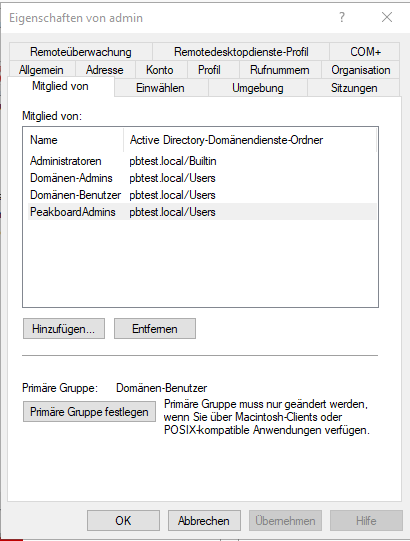
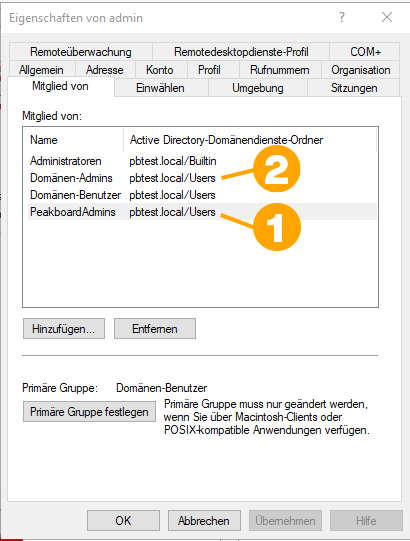
Minor changes

Changed region(s): [[0.5268, 0.2662, 0.7317, 0.4732], [0.5268, 0.3253, 0.5561, 0.3549]]

diff --git a/content/_administration/de-join-domain.md b/content/_administration/de-join-domain.md
@@ -1,0 +1,71 @@
+---
+layout: article
+title: Eine Peakboard Box zur Domäne hinzufügen inklusive Autostart
+menu_title: Peakboard Box zur Domäne hinzufügen + Autostart
+description: Eine Peakboard Box zur Domäne hinzufügen inklusive Autostart
+lang: de
+weight: 252
+ref: admin-252
+redirect_from:
+ - /administration/de-domain-with-powershell.html
+---
+
+### Vorbereitungen - Peakboard Box
+
+Um deine Peakboard Box zur Domäne hinzuzufügen muss diese [an einen Bildschirm angeschlossen](/get_started/de-peakboard-box.html) und betriebsbereit sein.
+Die Peakboard Box, die zur Domäne hinzugefügt werden soll, muss mindestens Softwareversion 3.5 haben.
+Um später Eingaben machen zu können musst du eine Tastatur und eine Maus anschließen.
+
+<div class="box-warning" markdown="1">**Hinweis**
+
+Das Remote Desktop Protocol (RDP) ist auf den Peakboard Boxen standardmäßig deaktiviert.
+</div>
+
+### Vorbereitungen - User in der Domäne anlegen
+
+* Der Domänen-Nutzer, der für Autologin und Autostart genutzt werden soll, sollte keine Adminrechte besitzen.
+* Der Domänen-Nutzer, der die Peakboard Box administrieren soll, muss im Active Directory der Domäne der Sicherheitsgruppe `PeakboardAdmins` (1) als Mitglied hinzugefügt werden und Domänen-Administrator (2) sein.
+
+![Sicherheitsgruppe](/assets/images/admin/domain/de_domain-09.png)
+![Sicherheitsgruppe](/assets/images/admin/domain/de_domain-10.png)
+
+### Peakboard Box Domänenintegration
+
+1. Beginne die Anbindung auf der Oberffläche der Peakboard Box mit den zuvor verbundenen Eingabegeräten. Drücke das Tastenkürzel [Strg + i]. Dadurch öffnet sich in der Visualisierung das Debug Panel.
+   ![Debug Panel öffnen](/assets/images/admin/domain/de_domain-01.png)
+
+2. Als nächstes benutzt du das Tastenkürzel [Strg + 7] um das Login-Fenster für die Domäne zu öffnen. Gib dort die aktuellen Zugangsdaten ein (pbadmin + Passwort) und bestätige mit [OK]. Das Passwort wurde per E-Mail an den Empfänger der Bestellung gesendet. Eventuell hast du es bereits geändert, dann nutze das geänderte Passwort.
+   ![Login Fenster öffnen](/assets/images/admin/domain/de_domain-02.png)
+
+3. Im nächsten Login-Fenster trägst du nun deine Domänen-Daten und die Login-Daten des Admin-Nutzers den du in den Vorbereitungen erstellt hast ein und bestätigst mit [OK].
+   Es erfolgt ein Neustart.
+   ![Domänen Daten eintragen](/assets/images/admin/domain/de_domain-03.png)
+
+4. Es öffnet sich der Windows Login-Dialog. Logge dich nun mit dem Domänen-Nutzer ein, der für den Autologin genutzt werden soll. Dieser sollte wie bereits erwähnt keine Adminrechte besitzen.
+
+   <div class="box-warning" markdown="1">**Achtung**
+
+   Folgende Nutzernamen dürfen für die Automatische Nutzeranmeldung nicht verwendet werden: `Peakboard`, `PBadmin`
+   </div>
+
+5. Nach dem Login wird automatisch die Eingabeaufforderung geöffnet. Starte aus der Eingabeaufforderung heraus eine Powershell mit dem Befehl `powershell`.
+   ![Powershell starten](/assets/images/admin/domain/de_domain-04.png)
+
+6. Fordere mit dem Befehl `Start-Process powershell -Verb runAs` administrative Rechte für die Powershell an. Es öffnet sich ein Anmeldefenster, bei dem du dich mit dem Admin-Nutzer aus Schritt 3, den du in den Vorbereitungen erstellt hast, authentifizieren musst.
+   ![Adminrechte für Powershell](/assets/images/admin/domain/de_domain-05.png)
+
+7. Erlaube mit dem Befehl `Set-ExecutionPolicy Bypass -Scope Process` temporär das Ausführen eines Powershell Skripts. Bestätige dazu nach der Eingabe mit [Y].
+   ![Temporäre Erlaubnis für Powershell Skript](/assets/images/admin/domain/de_domain-06.png)
+
+8. Starte das Set_Autostart Skript mit dem Befehl `& 'C:\Program Files\Peakboard\ManagementService\OutputFiles\Set_Autostart.ps1'`
+
+9. Trage hier nun die Daten des Domänen-Nutzers ein, der für den Autostart genutzt werden soll. Hier musst du den Nutzer aus Schritt 4 nutzen!
+   ![Autostart Nutzer eintragen](/assets/images/admin/domain/de_domain-07.png)
+
+10. Es erfolgt ein Neustart und der automatische Login und Start der Peakboard Runtime. Deine Peakboard Box ist nun mit der Domäne verbunden.
+
+### Die Peakboard Box mit dem Peakboard Designer verbinden
+
+Um deine Peakboard Box zu administrieren musst du diese im Peakboard Designer mit den Zugangsdaten des Domänen-Administrators, also dem Nutzer aus Schritt 3 und 6 hinzufügen.
+
+![Peakboard Box hinzufügen](/assets/images/admin/domain/de_domain-08.png)

diff --git a/content/_administration/en-join-domain.md b/content/_administration/en-join-domain.md
@@ -1,0 +1,71 @@
+---
+layout: article
+title: Add a Peakboard Box to the domain including autostart
+menu_title: Add Peakboard Box to domain + autostart
+description: Add a Peakboard Box to the domain including autostart
+lang: en
+weight: 252
+ref: admin-252
+redirect_from:
+ - /administration/en-domain-with-powershell.html
+---
+
+### Preparations - Peakboard Boxes
+
+To add your Peakboard Box to the domain, it must be [connected to a screen](/get_started/en-peakboard-box.html) and operational.
+The Peakboard Box to be added to the domain must have at least software version 3.5.
+In order to be able to make inputs later you must connect a keyboard and a mouse.
+
+<div class="box-warning" markdown="1">**Note**.
+
+The Remote Desktop Protocol (RDP) is disabled by default on Peakboard Boxes.
+</div>
+
+### Preparations - Create users in the domain
+
+* The domain user that will be used for autologin and autostart should not have admin rights.
+* The domain user who is going to administrate the Peakboard Box must be added as a member of the security group `PeakboardAdmins` (1) in the Active Directory of the domain and be a domain administrator (2).
+
+![Security group](/assets/images/admin/domain/en_domain-09.png)
+![Security group](/assets/images/admin/domain/en_domain-10.png)
+
+### Peakboard Box domain integration
+
+1. Start the connection in the Peakboard Box interface with the previously connected input devices. Press the keyboard shortcut [Ctrl + i]. This will open the Debug Panel in the visualization.
+   ![Open debug panel](/assets/images/admin/domain/en_domain-01.png)
+
+2. Next, use the keyboard shortcut [Ctrl + 7] to open the login window for the domain. Enter the current login data (pbadmin + password) and confirm with [OK]. The password has been sent by e-mail to the recipient of the order. Maybe you have already changed it, then use the changed password.
+   ![Open login window](/assets/images/admin/domain/en_domain-02.png)
+
+3. In the next login window enter your domain data and the login data of the admin user you created in the preparations and confirm with [OK].
+   A restart will follow.
+   [Enter domain data](/assets/images/admin/domain/en_domain-03.png)
+
+4. The Windows login dialog opens. Now log in with the domain user that should be used for the autologin. As already mentioned, this user should not have admin rights.
+
+   <div class="box-warning" markdown="1">**Caution**.
+
+   The following usernames must not be used for the autologin: `Peakboard`, `PBadmin`.
+   </div>
+
+5. After login, the command prompt will be opened automatically. Run a powershell from the command prompt with the command `powershell`.
+   ![Start powershell](/assets/images/admin/domain/en_domain-04.png)
+
+6. Request administrative rights for the Powershell with the command `start-process powershell -Verb runAs`. A login window will open where you have to authenticate with the admin user from step 3 that you created in the preparations.
+   ! [Admin rights for powershell](/assets/images/admin/domain/en_domain-05.png)
+
+7. Temporarily allow the execution of a powershell script with the command `Set-ExecutionPolicy Bypass -Scope Process`. To do this, confirm with [Y] after entering the command.
+   ![Temporary permission for powershell script](/assets/images/admin/domain/en_domain-06.png)
+
+8. Start the Set_Autostart script with the command `& 'C:\Program Files\Peakboard\ManagementService\OutputFiles\Set_Autostart.ps1'`
+
+9. Now enter the domain user data, which should be used for the autostart. You have to use the user from step 4!
+   ![Enter autostart user](/assets/images/admin/domain/en_domain-07.png)
+
+10. A reboot and the automatic login and start of the Peakboard runtime will take place. Your Peakboard Box is now connected to the domain.
+
+### Connecting the Peakboard Box to the Peakboard Designer
+
+To administer your Peakboard Box you have to add it in the Peakboard Designer with the credentials of the domain administrator, i.e. the user from steps 3 and 6.
+
+![Add Peakboard Box](/assets/images/admin/domain/en_domain-08.png)
